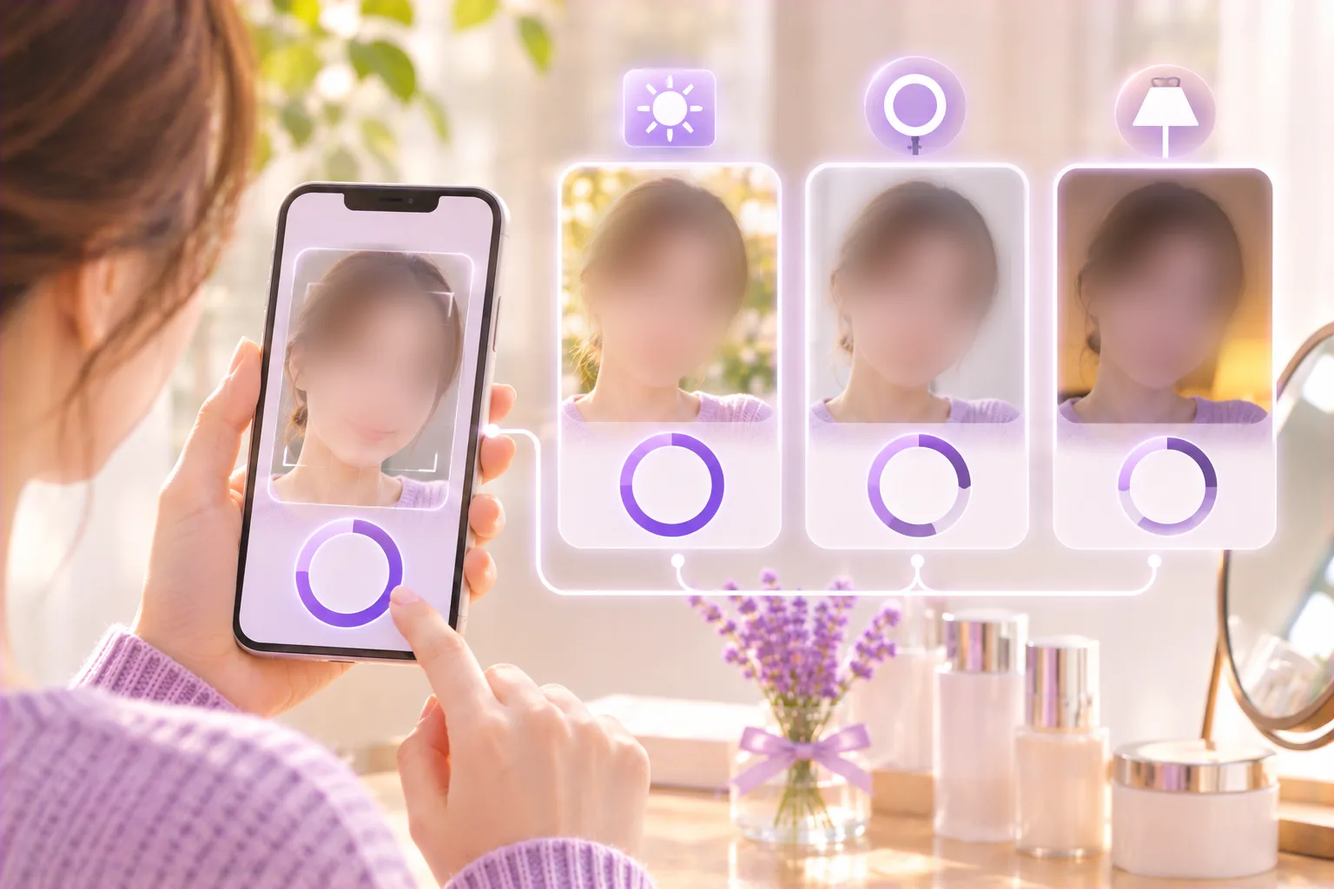
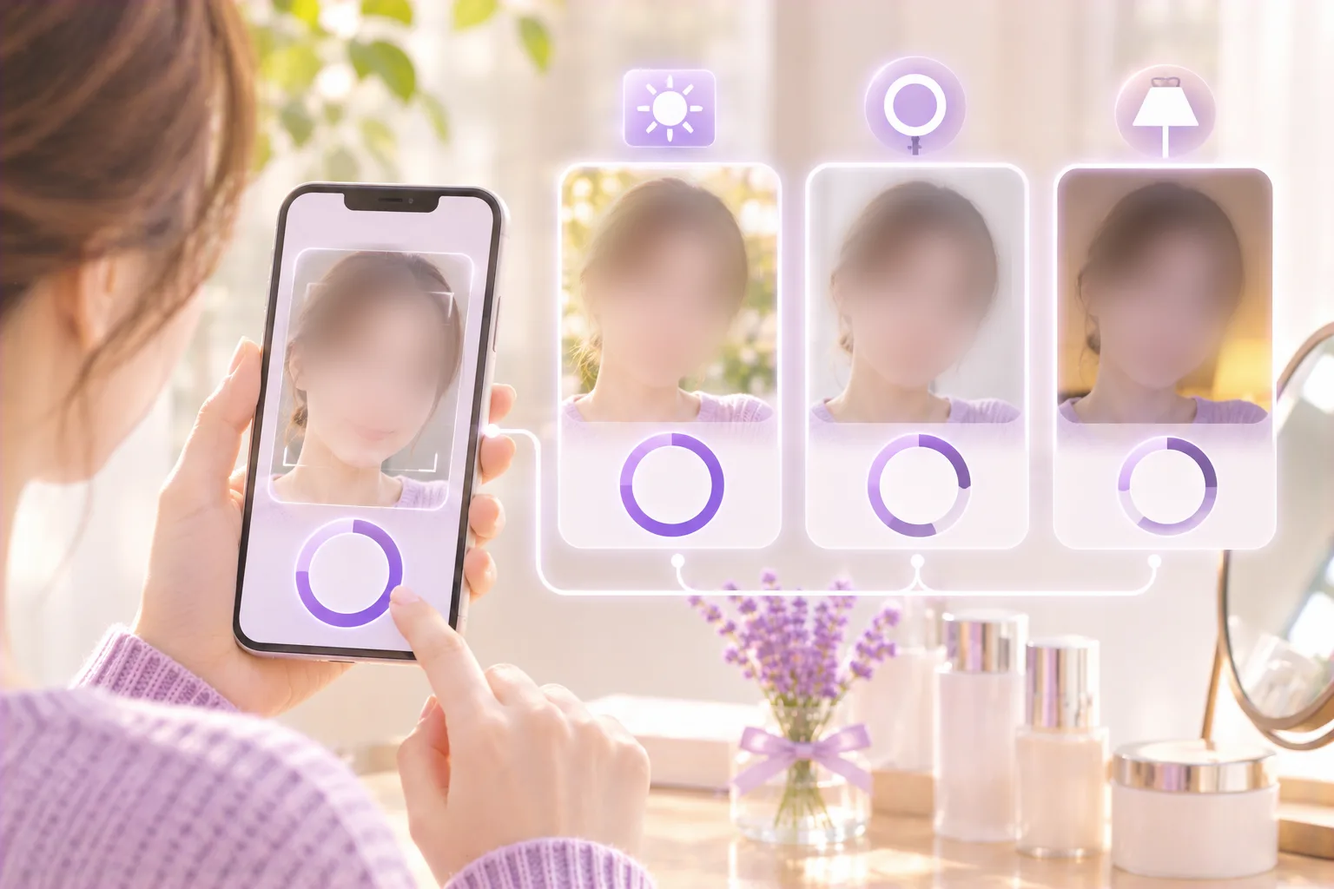
노트 6편 대표 이미지 밝기 기존 노트에 맞춤(?v=1122e) [skip netlify]
Claude-Session: https://claude.ai/code/session_011a17cx1dpy8tGs1Hnq7wi8

diff --git a/index.html b/index.html
@@ -729,7 +729,7 @@ a.note:hover,.note.live:hover{transform:translateY(-2px);border-color:var(--viol
   <div class="notes-bar">
     <div class="note-tabs" role="group" aria-label="노트 분류"></div>
   </div>
-  <div id="noteList"><div class="notes"><article class="note live"><img class="thumb" src="img/note-ai-news-2026-11-3-768.webp?v=1122d" width="768" height="512" loading="lazy" alt="책상 위에 나란히 선 이번 주 AI 소식 다섯 가지 카드"><div class="meta"><span class="cat">AI 뉴스 브리핑</span><span>2026.11.23</span></div><h3><a href="notes/ai-news-2026-11-3.html">이번 주 AI 소식 5가지</a></h3><p>2026년 11월 셋째 주, 제미나이 태스크 한국 무료부터 챗GPT 스페이스·라이브 받아쓰기, 모바일 새 화면, 앤트로픽 상장까지 공식 발표 기준으로 정리합니다.</p><div class="foot"><span class="go">노트 읽기 →</span><button type="button" class="more-btn" data-cat="AI 뉴스 브리핑">지난 노트 <b>8</b>편</button></div></article><article class="note live"><img class="thumb" src="img/note-gemini-tasks-free-768.webp?v=1122b" width="768" height="512" loading="lazy" alt="AI 로봇에게 일을 맡기고 쉬는 뒷모습"><div class="meta"><span class="cat">AI 활용 노하우</span><span>2026.11.23</span></div><h3><a href="notes/gemini-tasks-free.html">제미나이 태스크 무료로 쓰는 법, 무엇을 맡길 수 있나</a></h3><p>한국에서도 무료가 된 제미나이 태스크의 조건, 시작 순서, 미국 먼저인 기능, 결제·개인정보 주의점을 정리합니다.</p><div class="foot"><span class="go">노트 읽기 →</span><button type="button" class="more-btn" data-cat="AI 활용 노하우">지난 노트 <b>4</b>편</button></div></article><article class="note live"><img class="thumb" src="img/note-suno-visuals-768.webp?v=1122d" width="768" height="512" loading="lazy" alt="노트북 화면의 앨범 커버·영상 장면·음파"><div class="meta"><span class="cat">AI 음악 만들기</span><span>2026.11.23</span></div><h3><a href="notes/suno-visuals.html">수노(Suno) Visuals, 내 노래로 15초 영상 만드는 법</a></h3><p>노래로 15초 영상·가사 영상·앨범 아트를 만드는 순서, 따로 드는 Visuals 크레딧과 저작권 장치를 수노 공식 발표 기준으로 정리합니다.</p><div class="foot"><span class="go">노트 읽기 →</span><button type="button" class="more-btn" data-cat="AI 음악 만들기">지난 노트 <b>3</b>편</button></div></article><article class="note live"><img class="thumb" src="img/note-ai-skin-analysis-768.webp?v=1122b" width="768" height="512" loading="lazy" alt="조명에 따라 점수가 달라지는 피부 분석 화면(얼굴은 흐림)"><div class="meta"><span class="cat">뷰티 × AI</span><span>2026.11.23</span></div><h3><a href="notes/ai-skin-analysis.html">AI 피부 분석 앱, 어디까지 믿을 수 있나</a></h3><p>피부 점수가 보는 항목, 식약처 기준으로 본 의료기기와 관리 앱의 경계, 결과가 흔들리는 이유와 잘 쓰는 법을 정리합니다.</p><div class="foot"><span class="go">노트 읽기 →</span><button type="button" class="more-btn" data-cat="뷰티 × AI">지난 노트 <b>3</b>편</button></div></article><article class="note live"><img class="thumb" src="img/note-sheet-music-omr-768.webp?v=1122c" width="768" height="512" loading="lazy" alt="낡은 종이 악보가 AI로 편집 가능한 디지털 악보로 바뀌는 노트북 화면"><div class="meta"><span class="cat">반주 · 피아노 × AI</span><span>2026.11.23</span></div><h3><a href="notes/sheet-music-omr.html">PDF 악보를 편집할 수 있는 악보로, AI 악보 인식(OMR) 정리</a></h3><p>뮤즈스코어 PDF 가져오기·오디베리스·플레이스코어 2·사운드슬라이스 비교와 변환 순서, 검수·저작권 주의점을 정리합니다.</p><div class="foot"><span class="go">노트 읽기 →</span><button type="button" class="more-btn" data-cat="반주 · 피아노 × AI">지난 노트 <b>3</b>편</button></div></article><article class="note live"><img class="thumb" src="img/note-ai-copyright-registration-768.webp?v=1122c" width="768" height="512" loading="lazy" alt="AI가 만든 부분은 빠지고 사람이 만든 부분만 등록되는 저작권 등록증"><div class="meta"><span class="cat">AI 시대의 창작과 교육</span><span>2026.11.23</span></div><h3><a href="notes/ai-copyright-registration.html">저작권 등록할 때 AI 사용을 밝히게 된다, 창작자가 알아둘 것</a></h3><p>문체부의 AI 사용 명시 추진과 지금 등록 기준, 사람이 기여한 부분만 보호되는 원칙, 창작 기록 남기는 법을 정리합니다.</p><div class="foot"><span class="go">노트 읽기 →</span><button type="button" class="more-btn" data-cat="AI 시대의 창작과 교육">지난 노트 <b>3</b>편</button></div></article></div><div class="past with-cat" role="region" aria-label="지난 노트"><div class="past-head"><h4><b>지난</b> 노트</h4><span>분야 탭을 누르면 분야별로 모아 볼 수 있습니다</span></div><ol><li><a class="past-row" href="notes/ai-news-2026-11-2.html"><span class="c">AI 뉴스 브리핑</span><span class="t">이번 주 AI 소식 5가지 <span class="s">(11월 둘째 주)</span></span><time>2026.11.16</time></a></li><li><a class="past-row" href="notes/ai-content-festival-2026.html"><span class="c">AI 뉴스 브리핑</span><span class="t">AI 콘텐츠 페스티벌 2026으로 본 AI 창작의 흐름</span><time>2026.11.13</time></a></li><li><a class="past-row" href="notes/ai-news-2026-11-1.html"><span class="c">AI 뉴스 브리핑</span><span class="t">이번 주 AI 소식 5가지 <span class="s">(11월 첫째 주)</span></span><time>2026.11.07</time></a></li><li><a class="past-row" href="notes/gemini-plans-2026.html"><span class="c">AI 활용 노하우</span><span class="t">제미나이 요금제 비교, 11월 13일 이후 무엇을 고를까</span><time>2026.11.07</time></a></li><li><a class="past-row" href="notes/suno-cover-extend.html"><span class="c">AI 음악 만들기</span><span class="t">수노(Suno) 커버·익스텐드, 내 곡을 바꾸고 이어 만드는 법</span><time>2026.11.07</time></a></li><li><a class="past-row" href="notes/ai-virtual-makeup.html"><span class="c">뷰티 × AI</span><span class="t">AI 가상 메이크업 앱, 어디까지 믿을 수 있나</span><time>2026.11.07</time></a></li><li class="more-hidden"><a class="past-row" href="notes/christmas-worship-accompaniment.html"><span class="c">반주 · 피아노 × AI</span><span class="t">성탄 찬양 반주 준비, 코드 진행과 편곡 아이디어</span><time>2026.11.07</time></a></li><li class="more-hidden"><a class="past-row" href="notes/youtube-ai-monetization.html"><span class="c">AI 시대의 창작과 교육</span><span class="t">유튜브 AI 콘텐츠, 수익 정책 어디까지 알아야 하나</span><time>2026.11.07</time></a></li><li class="more-hidden"><a class="past-row" href="notes/robotworld-2026.html"><span class="c">AI 뉴스 브리핑</span><span class="t">로보월드 2026으로 본 휴머노이드·피지컬 AI 5가지</span><time>2026.11.06</time></a></li><li class="more-hidden"><a class="past-row" href="notes/aiot-week-2026.html"><span class="c">AI 뉴스 브리핑</span><span class="t">AIoT 위크 코리아 2026으로 본 피지컬 AI 5가지</span><time>2026.11.03</time></a></li><li class="more-hidden"><a class="past-row" href="notes/ai-news-2026-10-5.html"><span class="c">AI 뉴스 브리핑</span><span class="t">이번 주 AI 소식 5가지 <span class="s">(10월 다섯째 주)</span></span><time>2026.10.31</time></a></li><li class="more-hidden"><a class="past-row" href="notes/pickle-ai-agent.html"><span class="c">AI 활용 노하우</span><span class="t">휴대폰 속 AI 비서 피클, 인스팅트와 무엇이 다른가</span><time>2026.10.31</time></a></li><li class="more-hidden"><a class="past-row" href="notes/ai-news-2026-10-4.html"><span class="c">AI 뉴스 브리핑</span><span class="t">이번 주 AI 소식 5가지 <span class="s">(10월 넷째 주)</span></span><time>2026.10.26</time></a></li><li class="more-hidden"><a class="past-row" href="notes/gemini-gems-to-skills.html"><span class="c">AI 활용 노하우</span><span class="t">제미나이 Gems가 스킬로 바뀐다, 미리 할 일</span><time>2026.10.26</time></a></li><li class="more-hidden"><a class="past-row" href="notes/suno-styles.html"><span class="c">AI 음악 만들기</span><span class="t">수노(Suno) Styles 칸, 이렇게 쓰면 곡이 달라진다</span><time>2026.10.26</time></a></li><li class="more-hidden"><a class="past-row" href="notes/ai-hairstyle-simulation.html"><span class="c">뷰티 × AI</span><span class="t">AI 헤어스타일 시뮬레이션, 미용실 가기 전에 알아 둘 것</span><time>2026.10.26</time></a></li><li class="more-hidden"><a class="past-row" href="notes/worship-transpose.html"><span class="c">반주 · 피아노 × AI</span><span class="t">찬양 반주 조옮김, 트랜스포즈 버튼과 악보 프로그램 쓰는 법</span><time>2026.10.26</time></a></li><li class="more-hidden"><a class="past-row" href="notes/music-education-ai.html"><span class="c">AI 시대의 창작과 교육</span><span class="t">음악 교육 현장의 AI 도구, 지금 어디까지 왔나</span><time>2026.10.26</time></a></li><li class="more-hidden"><a class="past-row" href="notes/ai-news-2026-10-3.html"><span class="c">AI 뉴스 브리핑</span><span class="t">이번 주 AI 소식 5가지 <span class="s">(10월 셋째 주)</span></span><time>2026.10.21</time></a></li><li class="more-hidden"><a class="past-row" href="notes/chatgpt-gemini-claude.html"><span class="c">AI 활용 노하우</span><span class="t">챗GPT·제미나이·클로드, 무엇을 쓸까</span><time>2026.10.21</time></a></li><li class="more-hidden"><a class="past-row" href="notes/suno-lyrics.html"><span class="c">AI 음악 만들기</span><span class="t">수노(Suno) AI로 작사부터 시작하는 법</span><time>2026.10.21</time></a></li><li class="more-hidden"><a class="past-row" href="notes/personal-color.html"><span class="c">뷰티 × AI</span><span class="t">퍼스널컬러 진단, 받기 전에 알아 둘 것과 AI 활용법</span><time>2026.10.21</time></a></li><li class="more-hidden"><a class="past-row" href="notes/worship-chord-progressions.html"><span class="c">반주 · 피아노 × AI</span><span class="t">찬양 반주 코드 진행, 초보가 먼저 익힐 5가지</span><time>2026.10.21</time></a></li><li class="more-hidden"><a class="past-row" href="notes/ai-music-copyright.html"><span class="c">AI 시대의 창작과 교육</span><span class="t">AI로 만든 노래의 저작권, 지금 어디까지 왔나</span><time>2026.10.21</time></a></li></ol><button type="button" class="past-more">지난 노트 18편 더 보기</button></div></div><!--/noteList-->
+  <div id="noteList"><div class="notes"><article class="note live"><img class="thumb" src="img/note-ai-news-2026-11-3-768.webp?v=1122e" width="768" height="512" loading="lazy" alt="책상 위에 나란히 선 이번 주 AI 소식 다섯 가지 카드"><div class="meta"><span class="cat">AI 뉴스 브리핑</span><span>2026.11.23</span></div><h3><a href="notes/ai-news-2026-11-3.html">이번 주 AI 소식 5가지</a></h3><p>2026년 11월 셋째 주, 제미나이 태스크 한국 무료부터 챗GPT 스페이스·라이브 받아쓰기, 모바일 새 화면, 앤트로픽 상장까지 공식 발표 기준으로 정리합니다.</p><div class="foot"><span class="go">노트 읽기 →</span><button type="button" class="more-btn" data-cat="AI 뉴스 브리핑">지난 노트 <b>8</b>편</button></div></article><article class="note live"><img class="thumb" src="img/note-gemini-tasks-free-768.webp?v=1122e" width="768" height="512" loading="lazy" alt="AI 로봇에게 일을 맡기고 쉬는 뒷모습"><div class="meta"><span class="cat">AI 활용 노하우</span><span>2026.11.23</span></div><h3><a href="notes/gemini-tasks-free.html">제미나이 태스크 무료로 쓰는 법, 무엇을 맡길 수 있나</a></h3><p>한국에서도 무료가 된 제미나이 태스크의 조건, 시작 순서, 미국 먼저인 기능, 결제·개인정보 주의점을 정리합니다.</p><div class="foot"><span class="go">노트 읽기 →</span><button type="button" class="more-btn" data-cat="AI 활용 노하우">지난 노트 <b>4</b>편</button></div></article><article class="note live"><img class="thumb" src="img/note-suno-visuals-768.webp?v=1122e" width="768" height="512" loading="lazy" alt="노트북 화면의 앨범 커버·영상 장면·음파"><div class="meta"><span class="cat">AI 음악 만들기</span><span>2026.11.23</span></div><h3><a href="notes/suno-visuals.html">수노(Suno) Visuals, 내 노래로 15초 영상 만드는 법</a></h3><p>노래로 15초 영상·가사 영상·앨범 아트를 만드는 순서, 따로 드는 Visuals 크레딧과 저작권 장치를 수노 공식 발표 기준으로 정리합니다.</p><div class="foot"><span class="go">노트 읽기 →</span><button type="button" class="more-btn" data-cat="AI 음악 만들기">지난 노트 <b>3</b>편</button></div></article><article class="note live"><img class="thumb" src="img/note-ai-skin-analysis-768.webp?v=1122e" width="768" height="512" loading="lazy" alt="조명에 따라 점수가 달라지는 피부 분석 화면(얼굴은 흐림)"><div class="meta"><span class="cat">뷰티 × AI</span><span>2026.11.23</span></div><h3><a href="notes/ai-skin-analysis.html">AI 피부 분석 앱, 어디까지 믿을 수 있나</a></h3><p>피부 점수가 보는 항목, 식약처 기준으로 본 의료기기와 관리 앱의 경계, 결과가 흔들리는 이유와 잘 쓰는 법을 정리합니다.</p><div class="foot"><span class="go">노트 읽기 →</span><button type="button" class="more-btn" data-cat="뷰티 × AI">지난 노트 <b>3</b>편</button></div></article><article class="note live"><img class="thumb" src="img/note-sheet-music-omr-768.webp?v=1122e" width="768" height="512" loading="lazy" alt="낡은 종이 악보가 AI로 편집 가능한 디지털 악보로 바뀌는 노트북 화면"><div class="meta"><span class="cat">반주 · 피아노 × AI</span><span>2026.11.23</span></div><h3><a href="notes/sheet-music-omr.html">PDF 악보를 편집할 수 있는 악보로, AI 악보 인식(OMR) 정리</a></h3><p>뮤즈스코어 PDF 가져오기·오디베리스·플레이스코어 2·사운드슬라이스 비교와 변환 순서, 검수·저작권 주의점을 정리합니다.</p><div class="foot"><span class="go">노트 읽기 →</span><button type="button" class="more-btn" data-cat="반주 · 피아노 × AI">지난 노트 <b>3</b>편</button></div></article><article class="note live"><img class="thumb" src="img/note-ai-copyright-registration-768.webp?v=1122e" width="768" height="512" loading="lazy" alt="AI가 만든 부분은 빠지고 사람이 만든 부분만 등록되는 저작권 등록증"><div class="meta"><span class="cat">AI 시대의 창작과 교육</span><span>2026.11.23</span></div><h3><a href="notes/ai-copyright-registration.html">저작권 등록할 때 AI 사용을 밝히게 된다, 창작자가 알아둘 것</a></h3><p>문체부의 AI 사용 명시 추진과 지금 등록 기준, 사람이 기여한 부분만 보호되는 원칙, 창작 기록 남기는 법을 정리합니다.</p><div class="foot"><span class="go">노트 읽기 →</span><button type="button" class="more-btn" data-cat="AI 시대의 창작과 교육">지난 노트 <b>3</b>편</button></div></article></div><div class="past with-cat" role="region" aria-label="지난 노트"><div class="past-head"><h4><b>지난</b> 노트</h4><span>분야 탭을 누르면 분야별로 모아 볼 수 있습니다</span></div><ol><li><a class="past-row" href="notes/ai-news-2026-11-2.html"><span class="c">AI 뉴스 브리핑</span><span class="t">이번 주 AI 소식 5가지 <span class="s">(11월 둘째 주)</span></span><time>2026.11.16</time></a></li><li><a class="past-row" href="notes/ai-content-festival-2026.html"><span class="c">AI 뉴스 브리핑</span><span class="t">AI 콘텐츠 페스티벌 2026으로 본 AI 창작의 흐름</span><time>2026.11.13</time></a></li><li><a class="past-row" href="notes/ai-news-2026-11-1.html"><span class="c">AI 뉴스 브리핑</span><span class="t">이번 주 AI 소식 5가지 <span class="s">(11월 첫째 주)</span></span><time>2026.11.07</time></a></li><li><a class="past-row" href="notes/gemini-plans-2026.html"><span class="c">AI 활용 노하우</span><span class="t">제미나이 요금제 비교, 11월 13일 이후 무엇을 고를까</span><time>2026.11.07</time></a></li><li><a class="past-row" href="notes/suno-cover-extend.html"><span class="c">AI 음악 만들기</span><span class="t">수노(Suno) 커버·익스텐드, 내 곡을 바꾸고 이어 만드는 법</span><time>2026.11.07</time></a></li><li><a class="past-row" href="notes/ai-virtual-makeup.html"><span class="c">뷰티 × AI</span><span class="t">AI 가상 메이크업 앱, 어디까지 믿을 수 있나</span><time>2026.11.07</time></a></li><li class="more-hidden"><a class="past-row" href="notes/christmas-worship-accompaniment.html"><span class="c">반주 · 피아노 × AI</span><span class="t">성탄 찬양 반주 준비, 코드 진행과 편곡 아이디어</span><time>2026.11.07</time></a></li><li class="more-hidden"><a class="past-row" href="notes/youtube-ai-monetization.html"><span class="c">AI 시대의 창작과 교육</span><span class="t">유튜브 AI 콘텐츠, 수익 정책 어디까지 알아야 하나</span><time>2026.11.07</time></a></li><li class="more-hidden"><a class="past-row" href="notes/robotworld-2026.html"><span class="c">AI 뉴스 브리핑</span><span class="t">로보월드 2026으로 본 휴머노이드·피지컬 AI 5가지</span><time>2026.11.06</time></a></li><li class="more-hidden"><a class="past-row" href="notes/aiot-week-2026.html"><span class="c">AI 뉴스 브리핑</span><span class="t">AIoT 위크 코리아 2026으로 본 피지컬 AI 5가지</span><time>2026.11.03</time></a></li><li class="more-hidden"><a class="past-row" href="notes/ai-news-2026-10-5.html"><span class="c">AI 뉴스 브리핑</span><span class="t">이번 주 AI 소식 5가지 <span class="s">(10월 다섯째 주)</span></span><time>2026.10.31</time></a></li><li class="more-hidden"><a class="past-row" href="notes/pickle-ai-agent.html"><span class="c">AI 활용 노하우</span><span class="t">휴대폰 속 AI 비서 피클, 인스팅트와 무엇이 다른가</span><time>2026.10.31</time></a></li><li class="more-hidden"><a class="past-row" href="notes/ai-news-2026-10-4.html"><span class="c">AI 뉴스 브리핑</span><span class="t">이번 주 AI 소식 5가지 <span class="s">(10월 넷째 주)</span></span><time>2026.10.26</time></a></li><li class="more-hidden"><a class="past-row" href="notes/gemini-gems-to-skills.html"><span class="c">AI 활용 노하우</span><span class="t">제미나이 Gems가 스킬로 바뀐다, 미리 할 일</span><time>2026.10.26</time></a></li><li class="more-hidden"><a class="past-row" href="notes/suno-styles.html"><span class="c">AI 음악 만들기</span><span class="t">수노(Suno) Styles 칸, 이렇게 쓰면 곡이 달라진다</span><time>2026.10.26</time></a></li><li class="more-hidden"><a class="past-row" href="notes/ai-hairstyle-simulation.html"><span class="c">뷰티 × AI</span><span class="t">AI 헤어스타일 시뮬레이션, 미용실 가기 전에 알아 둘 것</span><time>2026.10.26</time></a></li><li class="more-hidden"><a class="past-row" href="notes/worship-transpose.html"><span class="c">반주 · 피아노 × AI</span><span class="t">찬양 반주 조옮김, 트랜스포즈 버튼과 악보 프로그램 쓰는 법</span><time>2026.10.26</time></a></li><li class="more-hidden"><a class="past-row" href="notes/music-education-ai.html"><span class="c">AI 시대의 창작과 교육</span><span class="t">음악 교육 현장의 AI 도구, 지금 어디까지 왔나</span><time>2026.10.26</time></a></li><li class="more-hidden"><a class="past-row" href="notes/ai-news-2026-10-3.html"><span class="c">AI 뉴스 브리핑</span><span class="t">이번 주 AI 소식 5가지 <span class="s">(10월 셋째 주)</span></span><time>2026.10.21</time></a></li><li class="more-hidden"><a class="past-row" href="notes/chatgpt-gemini-claude.html"><span class="c">AI 활용 노하우</span><span class="t">챗GPT·제미나이·클로드, 무엇을 쓸까</span><time>2026.10.21</time></a></li><li class="more-hidden"><a class="past-row" href="notes/suno-lyrics.html"><span class="c">AI 음악 만들기</span><span class="t">수노(Suno) AI로 작사부터 시작하는 법</span><time>2026.10.21</time></a></li><li class="more-hidden"><a class="past-row" href="notes/personal-color.html"><span class="c">뷰티 × AI</span><span class="t">퍼스널컬러 진단, 받기 전에 알아 둘 것과 AI 활용법</span><time>2026.10.21</time></a></li><li class="more-hidden"><a class="past-row" href="notes/worship-chord-progressions.html"><span class="c">반주 · 피아노 × AI</span><span class="t">찬양 반주 코드 진행, 초보가 먼저 익힐 5가지</span><time>2026.10.21</time></a></li><li class="more-hidden"><a class="past-row" href="notes/ai-music-copyright.html"><span class="c">AI 시대의 창작과 교육</span><span class="t">AI로 만든 노래의 저작권, 지금 어디까지 왔나</span><time>2026.10.21</time></a></li></ol><button type="button" class="past-more">지난 노트 18편 더 보기</button></div></div><!--/noteList-->
 </section>
 
 <script>
@@ -738,12 +738,12 @@ a.note:hover,.note.live:hover{transform:translateY(-2px);border-color:var(--viol
    url에 "notes/파일명.html"을 넣으면 카드가 노트로 연결되고, 비어 있으면 "준비 중"으로 표시됩니다. */
 const CATS = ["AI 뉴스 브리핑","AI 활용 노하우","AI 음악 만들기","뷰티 × AI","반주 · 피아노 × AI","AI 시대의 창작과 교육"];
 const NOTES = [
-  {cat:"AI 뉴스 브리핑", title:"이번 주 AI 소식 5가지", desc:"2026년 11월 셋째 주, 제미나이 태스크 한국 무료부터 챗GPT 스페이스·라이브 받아쓰기, 모바일 새 화면, 앤트로픽 상장까지 공식 발표 기준으로 정리합니다.", sub:"11월 셋째 주", date:"2026.11.23", url:"notes/ai-news-2026-11-3.html", img:"img/note-ai-news-2026-11-3-768.webp?v=1122d", alt:"책상 위에 나란히 선 이번 주 AI 소식 다섯 가지 카드"},
-  {cat:"AI 시대의 창작과 교육", title:"저작권 등록할 때 AI 사용을 밝히게 된다, 창작자가 알아둘 것", desc:"문체부의 AI 사용 명시 추진과 지금 등록 기준, 사람이 기여한 부분만 보호되는 원칙, 창작 기록 남기는 법을 정리합니다.", date:"2026.11.23", url:"notes/ai-copyright-registration.html", img:"img/note-ai-copyright-registration-768.webp?v=1122c", alt:"AI가 만든 부분은 빠지고 사람이 만든 부분만 등록되는 저작권 등록증"},
-  {cat:"반주 · 피아노 × AI", title:"PDF 악보를 편집할 수 있는 악보로, AI 악보 인식(OMR) 정리", desc:"뮤즈스코어 PDF 가져오기·오디베리스·플레이스코어 2·사운드슬라이스 비교와 변환 순서, 검수·저작권 주의점을 정리합니다.", date:"2026.11.23", url:"notes/sheet-music-omr.html", img:"img/note-sheet-music-omr-768.webp?v=1122c", alt:"낡은 종이 악보가 AI로 편집 가능한 디지털 악보로 바뀌는 노트북 화면"},
-  {cat:"뷰티 × AI", title:"AI 피부 분석 앱, 어디까지 믿을 수 있나", desc:"피부 점수가 보는 항목, 식약처 기준으로 본 의료기기와 관리 앱의 경계, 결과가 흔들리는 이유와 잘 쓰는 법을 정리합니다.", date:"2026.11.23", url:"notes/ai-skin-analysis.html", img:"img/note-ai-skin-analysis-768.webp?v=1122b", alt:"조명에 따라 점수가 달라지는 피부 분석 화면(얼굴은 흐림)"},
-  {cat:"AI 음악 만들기", title:"수노(Suno) Visuals, 내 노래로 15초 영상 만드는 법", desc:"노래로 15초 영상·가사 영상·앨범 아트를 만드는 순서, 따로 드는 Visuals 크레딧과 저작권 장치를 수노 공식 발표 기준으로 정리합니다.", date:"2026.11.23", url:"notes/suno-visuals.html", img:"img/note-suno-visuals-768.webp?v=1122d", alt:"노트북 화면의 앨범 커버·영상 장면·음파"},
-  {cat:"AI 활용 노하우", title:"제미나이 태스크 무료로 쓰는 법, 무엇을 맡길 수 있나", desc:"한국에서도 무료가 된 제미나이 태스크의 조건, 시작 순서, 미국 먼저인 기능, 결제·개인정보 주의점을 정리합니다.", date:"2026.11.23", url:"notes/gemini-tasks-free.html", img:"img/note-gemini-tasks-free-768.webp?v=1122b", alt:"AI 로봇에게 일을 맡기고 쉬는 뒷모습"},
+  {cat:"AI 뉴스 브리핑", title:"이번 주 AI 소식 5가지", desc:"2026년 11월 셋째 주, 제미나이 태스크 한국 무료부터 챗GPT 스페이스·라이브 받아쓰기, 모바일 새 화면, 앤트로픽 상장까지 공식 발표 기준으로 정리합니다.", sub:"11월 셋째 주", date:"2026.11.23", url:"notes/ai-news-2026-11-3.html", img:"img/note-ai-news-2026-11-3-768.webp?v=1122e", alt:"책상 위에 나란히 선 이번 주 AI 소식 다섯 가지 카드"},
+  {cat:"AI 시대의 창작과 교육", title:"저작권 등록할 때 AI 사용을 밝히게 된다, 창작자가 알아둘 것", desc:"문체부의 AI 사용 명시 추진과 지금 등록 기준, 사람이 기여한 부분만 보호되는 원칙, 창작 기록 남기는 법을 정리합니다.", date:"2026.11.23", url:"notes/ai-copyright-registration.html", img:"img/note-ai-copyright-registration-768.webp?v=1122e", alt:"AI가 만든 부분은 빠지고 사람이 만든 부분만 등록되는 저작권 등록증"},
+  {cat:"반주 · 피아노 × AI", title:"PDF 악보를 편집할 수 있는 악보로, AI 악보 인식(OMR) 정리", desc:"뮤즈스코어 PDF 가져오기·오디베리스·플레이스코어 2·사운드슬라이스 비교와 변환 순서, 검수·저작권 주의점을 정리합니다.", date:"2026.11.23", url:"notes/sheet-music-omr.html", img:"img/note-sheet-music-omr-768.webp?v=1122e", alt:"낡은 종이 악보가 AI로 편집 가능한 디지털 악보로 바뀌는 노트북 화면"},
+  {cat:"뷰티 × AI", title:"AI 피부 분석 앱, 어디까지 믿을 수 있나", desc:"피부 점수가 보는 항목, 식약처 기준으로 본 의료기기와 관리 앱의 경계, 결과가 흔들리는 이유와 잘 쓰는 법을 정리합니다.", date:"2026.11.23", url:"notes/ai-skin-analysis.html", img:"img/note-ai-skin-analysis-768.webp?v=1122e", alt:"조명에 따라 점수가 달라지는 피부 분석 화면(얼굴은 흐림)"},
+  {cat:"AI 음악 만들기", title:"수노(Suno) Visuals, 내 노래로 15초 영상 만드는 법", desc:"노래로 15초 영상·가사 영상·앨범 아트를 만드는 순서, 따로 드는 Visuals 크레딧과 저작권 장치를 수노 공식 발표 기준으로 정리합니다.", date:"2026.11.23", url:"notes/suno-visuals.html", img:"img/note-suno-visuals-768.webp?v=1122e", alt:"노트북 화면의 앨범 커버·영상 장면·음파"},
+  {cat:"AI 활용 노하우", title:"제미나이 태스크 무료로 쓰는 법, 무엇을 맡길 수 있나", desc:"한국에서도 무료가 된 제미나이 태스크의 조건, 시작 순서, 미국 먼저인 기능, 결제·개인정보 주의점을 정리합니다.", date:"2026.11.23", url:"notes/gemini-tasks-free.html", img:"img/note-gemini-tasks-free-768.webp?v=1122e", alt:"AI 로봇에게 일을 맡기고 쉬는 뒷모습"},
   {cat:"AI 뉴스 브리핑", title:"이번 주 AI 소식 5가지", desc:"2026년 11월 둘째 주, 챗GPT 음성 12월 11일 변경과 클로드 시트·화이트보드, 제미나이 카플레이, 어도비 맥스, AI 안경 예약을 공식 발표 기준으로 정리합니다.", sub:"11월 둘째 주", date:"2026.11.16", url:"notes/ai-news-2026-11-2.html", img:"img/note-ai-news-2026-11-2-768.webp", alt:"보라색 음성 파형이 뜬 스마트폰에 손을 얹은 책상"},
   {cat:"AI 뉴스 브리핑", title:"AI 콘텐츠 페스티벌 2026으로 본 AI 창작의 흐름", desc:"문체부·콘진원이 연 무료 AI 콘텐츠 축제. 스토리·플레이·메이크·크로스 전시와 사흘간 강연·오픈클래스, 14일 특별공연과 관람 정보를 정리합니다.", date:"2026.11.13", url:"notes/ai-content-festival-2026.html", img:"img/note-ai-content-festival-2026-768.webp", alt:"코엑스 더플라츠 복도의 AI 콘텐츠 페스티벌 디지털 안내 화면 앞에 선 관람객들의 뒷모습"},
   {cat:"AI 시대의 창작과 교육", title:"유튜브 AI 콘텐츠, 수익 정책 어디까지 알아야 하나", desc:"비진정성 콘텐츠 기준, AI 음악 사용 공개, AI 라벨과 수익, 2027년 YPP 변경을 유튜브 공식 정책으로 정리합니다.", date:"2026.11.07", url:"notes/youtube-ai-monetization.html", img:"img/note-youtube-ai-monetization-768.webp", alt:"영상 편집 화면 옆에서 체크리스트에 표시하는 손"},

diff --git a/notes/ai-copyright-registration.html b/notes/ai-copyright-registration.html
@@ -143,7 +143,7 @@ if(document.readyState==='complete'){w();}else{addEventListener('load',w);}})();
 </header>
 
 <figure class="hero">
-  <img src="../img/note-ai-copyright-registration.webp?v=1122c" srcset="../img/note-ai-copyright-registration-768.webp?v=1122c 768w, ../img/note-ai-copyright-registration.webp?v=1122c 1536w" sizes="(max-width:760px) 100vw, 760px" width="1536" height="1024" fetchpriority="high" alt="원목 책상 위 노트북 화면에 AI 로봇이 만든 음파와 사람이 펜으로 다듬은 음파가 나뉘어 있고, 사람이 만든 부분만 금색 음표 인장이 찍힌 등록증에 옮겨지고 AI 부분은 금지 표시로 빠지는 모습. 옆에 헤드폰, 보라 노트와 펜, 라테, 라벤더 꽃병">
+  <img src="../img/note-ai-copyright-registration.webp?v=1122e" srcset="../img/note-ai-copyright-registration-768.webp?v=1122e 768w, ../img/note-ai-copyright-registration.webp?v=1122e 1536w" sizes="(max-width:760px) 100vw, 760px" width="1536" height="1024" fetchpriority="high" alt="원목 책상 위 노트북 화면에 AI 로봇이 만든 음파와 사람이 펜으로 다듬은 음파가 나뉘어 있고, 사람이 만든 부분만 금색 음표 인장이 찍힌 등록증에 옮겨지고 AI 부분은 금지 표시로 빠지는 모습. 옆에 헤드폰, 보라 노트와 펜, 라테, 라벤더 꽃병">
   <figcaption>AI 생성 이미지입니다.</figcaption>
 </figure>
 

diff --git a/notes/ai-news-2026-11-3.html b/notes/ai-news-2026-11-3.html
@@ -143,7 +143,7 @@ if(document.readyState==='complete'){w();}else{addEventListener('load',w);}})();
 </header>
 
 <figure class="hero">
-  <img src="../img/note-ai-news-2026-11-3.webp?v=1122d" srcset="../img/note-ai-news-2026-11-3-768.webp?v=1122d 768w, ../img/note-ai-news-2026-11-3.webp?v=1122d 1536w" sizes="(max-width:760px) 100vw, 760px" width="1536" height="1024" fetchpriority="high" alt="햇살 드는 원목 책상 위에 흰 카드 다섯 장이 나란히 서 있고, 할 일 체크 목록·작업 공간·마이크와 음파·휴대폰 앱 화면·상승 그래프가 하나씩 그려져 이번 주 AI 소식 다섯 가지를 보여 주는 정물. 옆에 라벤더 꽃병, 캔들, 책, 아이보리 헤드폰, 보라 노트와 펜">
+  <img src="../img/note-ai-news-2026-11-3.webp?v=1122e" srcset="../img/note-ai-news-2026-11-3-768.webp?v=1122e 768w, ../img/note-ai-news-2026-11-3.webp?v=1122e 1536w" sizes="(max-width:760px) 100vw, 760px" width="1536" height="1024" fetchpriority="high" alt="햇살 드는 원목 책상 위에 흰 카드 다섯 장이 나란히 서 있고, 할 일 체크 목록·작업 공간·마이크와 음파·휴대폰 앱 화면·상승 그래프가 하나씩 그려져 이번 주 AI 소식 다섯 가지를 보여 주는 정물. 옆에 라벤더 꽃병, 캔들, 책, 아이보리 헤드폰, 보라 노트와 펜">
   <figcaption>AI 생성 이미지입니다.</figcaption>
 </figure>
 

diff --git a/notes/suno-visuals.html b/notes/suno-visuals.html
@@ -143,7 +143,7 @@ if(document.readyState==='complete'){w();}else{addEventListener('load',w);}})();
 </header>
 
 <figure class="hero">
-  <img src="../img/note-suno-visuals.webp?v=1122d" srcset="../img/note-suno-visuals-768.webp?v=1122d 768w, ../img/note-suno-visuals.webp?v=1122d 1536w" sizes="(max-width:760px) 100vw, 760px" width="1536" height="1024" fetchpriority="high" alt="원목 책상 위 노트북 화면에 LP와 함께 놓인 앨범 커버, 노을 진 파리 풍경 영상 장면 세 칸, 그 아래 보라 음파가 정돈되어 노래 하나로 앨범 아트와 짧은 영상을 만드는 모습을 보여 주는 정물. 옆에 라벤더 꽃병, 아이보리 헤드폰, 건반, 보라 노트와 펜">
+  <img src="../img/note-suno-visuals.webp?v=1122e" srcset="../img/note-suno-visuals-768.webp?v=1122e 768w, ../img/note-suno-visuals.webp?v=1122e 1536w" sizes="(max-width:760px) 100vw, 760px" width="1536" height="1024" fetchpriority="high" alt="원목 책상 위 노트북 화면에 LP와 함께 놓인 앨범 커버, 노을 진 파리 풍경 영상 장면 세 칸, 그 아래 보라 음파가 정돈되어 노래 하나로 앨범 아트와 짧은 영상을 만드는 모습을 보여 주는 정물. 옆에 라벤더 꽃병, 아이보리 헤드폰, 건반, 보라 노트와 펜">
   <figcaption>AI 생성 이미지입니다.</figcaption>
 </figure>
 

diff --git a/notes/ai-skin-analysis.html b/notes/ai-skin-analysis.html
@@ -143,7 +143,7 @@ if(document.readyState==='complete'){w();}else{addEventListener('load',w);}})();
 </header>
 
 <figure class="hero">
-  <img src="../img/note-ai-skin-analysis.webp?v=1122b" srcset="../img/note-ai-skin-analysis-768.webp?v=1122b 768w, ../img/note-ai-skin-analysis.webp?v=1122b 1536w" sizes="(max-width:760px) 100vw, 760px" width="1536" height="1024" fetchpriority="high" alt="화장대 앞에서 연한 퍼플 니트 소매의 손이 피부 분석 화면을 띄운 휴대폰을 들고 터치하고, 햇빛·조명·스탠드 아이콘 아래 같은 얼굴 사진 세 장의 점수 그래프가 서로 다르게 나오는 모습(얼굴은 흐림). 앞에 크림색 스킨케어 병과 라벤더">
+  <img src="../img/note-ai-skin-analysis.webp?v=1122e" srcset="../img/note-ai-skin-analysis-768.webp?v=1122e 768w, ../img/note-ai-skin-analysis.webp?v=1122e 1536w" sizes="(max-width:760px) 100vw, 760px" width="1536" height="1024" fetchpriority="high" alt="화장대 앞에서 연한 퍼플 니트 소매의 손이 피부 분석 화면을 띄운 휴대폰을 들고 터치하고, 햇빛·조명·스탠드 아이콘 아래 같은 얼굴 사진 세 장의 점수 그래프가 서로 다르게 나오는 모습(얼굴은 흐림). 앞에 크림색 스킨케어 병과 라벤더">
   <figcaption>AI 생성 이미지입니다.</figcaption>
 </figure>
 

diff --git a/notes/sheet-music-omr.html b/notes/sheet-music-omr.html
@@ -143,7 +143,7 @@ if(document.readyState==='complete'){w();}else{addEventListener('load',w);}})();
 </header>
 
 <figure class="hero">
-  <img src="../img/note-sheet-music-omr.webp?v=1122c" srcset="../img/note-sheet-music-omr-768.webp?v=1122c 768w, ../img/note-sheet-music-omr.webp?v=1122c 1536w" sizes="(max-width:760px) 100vw, 760px" width="1536" height="1024" fetchpriority="high" alt="원목 책상 위 노트북 화면에서 왼쪽의 낡은 종이 악보가 AI 칩을 거쳐 오른쪽의 깔끔하고 고칠 수 있는 디지털 악보로 바뀌고, 연한 퍼플 니트 소매의 손가락이 터치패드를 누르는 모습. 옆에 라벤더 꽃병, 책, 종이 악보와 펜, 건반">
+  <img src="../img/note-sheet-music-omr.webp?v=1122e" srcset="../img/note-sheet-music-omr-768.webp?v=1122e 768w, ../img/note-sheet-music-omr.webp?v=1122e 1536w" sizes="(max-width:760px) 100vw, 760px" width="1536" height="1024" fetchpriority="high" alt="원목 책상 위 노트북 화면에서 왼쪽의 낡은 종이 악보가 AI 칩을 거쳐 오른쪽의 깔끔하고 고칠 수 있는 디지털 악보로 바뀌고, 연한 퍼플 니트 소매의 손가락이 터치패드를 누르는 모습. 옆에 라벤더 꽃병, 책, 종이 악보와 펜, 건반">
   <figcaption>AI 생성 이미지입니다.</figcaption>
 </figure>
 

diff --git a/notes/gemini-tasks-free.html b/notes/gemini-tasks-free.html
@@ -143,7 +143,7 @@ if(document.readyState==='complete'){w();}else{addEventListener('load',w);}})();
 </header>
 
 <figure class="hero">
-  <img src="../img/note-gemini-tasks-free.webp?v=1122b" srcset="../img/note-gemini-tasks-free-768.webp?v=1122b 768w, ../img/note-gemini-tasks-free.webp?v=1122b 1536w" sizes="(max-width:760px) 100vw, 760px" width="1536" height="1024" fetchpriority="high" alt="연한 퍼플 니트를 입은 여성이 뒷모습으로 의자에 기대 두 손을 머리 뒤로 깍지 낀 채 쉬고, 모니터 속 웃는 AI 로봇이 폴더를 받아 영상·이미지·그래프·문서 작업을 체크하며 처리하는 모습. 책상에 커피와 노트, 라벤더 꽃">
+  <img src="../img/note-gemini-tasks-free.webp?v=1122e" srcset="../img/note-gemini-tasks-free-768.webp?v=1122e 768w, ../img/note-gemini-tasks-free.webp?v=1122e 1536w" sizes="(max-width:760px) 100vw, 760px" width="1536" height="1024" fetchpriority="high" alt="연한 퍼플 니트를 입은 여성이 뒷모습으로 의자에 기대 두 손을 머리 뒤로 깍지 낀 채 쉬고, 모니터 속 웃는 AI 로봇이 폴더를 받아 영상·이미지·그래프·문서 작업을 체크하며 처리하는 모습. 책상에 커피와 노트, 라벤더 꽃">
   <figcaption>AI 생성 이미지입니다.</figcaption>
 </figure>
 
